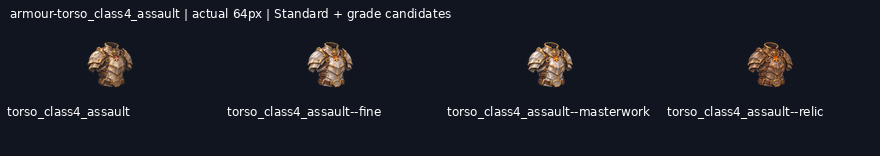
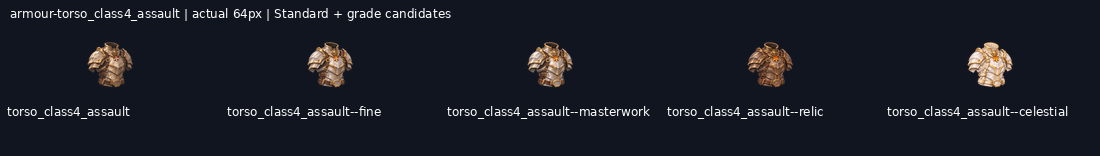
art: draw armour-torso_class4_assault--celestial grade candidate

diff --git a/art/_archive/gear/2026-11-19-kept-blade-grades/HANDOFF.md b/art/_archive/gear/2026-11-19-kept-blade-grades/HANDOFF.md
@@ -1,9 +1,9 @@
 # Kept-blade grade candidates
 
-**76/120 grade candidates delivered** on `art/2026-11-19-kept-blade-grades`. Shared mailbox: https://github.com/leonpentastorm/Project-Heaven-Cry/issues/3 . See claim.json for this lane’s current Standards. Released overlapping blades reuse12 peer candidates, with3 local alternatives archived.
+**77/120 grade candidates delivered** on `art/2026-11-19-kept-blade-grades`. Shared mailbox: https://github.com/leonpentastorm/Project-Heaven-Cry/issues/3 . See claim.json for this lane’s current Standards. Released overlapping blades reuse12 peer candidates, with3 local alternatives archived.
 
 Leon requested continuous candidate production; proof approval is not fabricated. All candidates remain review-candidate, production_approved:false, implementation_ready:false, with outline.review_required:true. Exact outline is measured, never asserted unless the masks match. Per-image registration is uniform scaling/translation only, without warp, silhouette masks, filled pixels or code-drawn substitutes. The generated native remains untouched.
 
 Each image is generated, shown, technically exported, validated, committed and pushed before the next. Sources, versioned masters, exact prompts/reference hashes,256/128/64/32 exports and grade comparison sheets are retained. Standards and earlier deliveries are unchanged. This sparse checkout cannot validate omitted historical files; full-library validation/build is an integration check on a full checkout.
 
-Remaining: weapon-ork_machete--masterwork, weapon-ork_machete--relic, weapon-ork_machete--celestial, weapon-war_axe--fine, weapon-war_axe--masterwork, weapon-war_axe--relic, weapon-war_axe--celestial, armour-torso_class4_assault--celestial, armour-torso_class5_juggernaut--fine, armour-torso_class5_juggernaut--masterwork, armour-torso_class5_juggernaut--relic, armour-torso_class5_juggernaut--celestial, armour-padded_undershirt--fine, armour-padded_undershirt--masterwork, armour-padded_undershirt--relic, armour-padded_undershirt--celestial, armour-trauma_plate--fine, armour-trauma_plate--masterwork, armour-trauma_plate--relic, armour-trauma_plate--celestial, armour-runner_trousers--fine, armour-runner_trousers--masterwork, armour-runner_trousers--relic, armour-runner_trousers--celestial, armour-armoured_greaves--fine, armour-armoured_greaves--masterwork, armour-armoured_greaves--relic, armour-armoured_greaves--celestial, armour-work_gloves--fine, armour-work_gloves--masterwork, armour-work_gloves--relic, armour-work_gloves--celestial, armour-combat_gloves--fine, armour-combat_gloves--masterwork, armour-combat_gloves--relic, armour-combat_gloves--celestial, armour-field_boots--fine, armour-field_boots--masterwork, armour-field_boots--relic, armour-field_boots--celestial, armour-heavy_boots--fine, armour-heavy_boots--masterwork, armour-heavy_boots--relic, armour-heavy_boots--celestial.
+Remaining: weapon-ork_machete--masterwork, weapon-ork_machete--relic, weapon-ork_machete--celestial, weapon-war_axe--fine, weapon-war_axe--masterwork, weapon-war_axe--relic, weapon-war_axe--celestial, armour-torso_class5_juggernaut--fine, armour-torso_class5_juggernaut--masterwork, armour-torso_class5_juggernaut--relic, armour-torso_class5_juggernaut--celestial, armour-padded_undershirt--fine, armour-padded_undershirt--masterwork, armour-padded_undershirt--relic, armour-padded_undershirt--celestial, armour-trauma_plate--fine, armour-trauma_plate--masterwork, armour-trauma_plate--relic, armour-trauma_plate--celestial, armour-runner_trousers--fine, armour-runner_trousers--masterwork, armour-runner_trousers--relic, armour-runner_trousers--celestial, armour-armoured_greaves--fine, armour-armoured_greaves--masterwork, armour-armoured_greaves--relic, armour-armoured_greaves--celestial, armour-work_gloves--fine, armour-work_gloves--masterwork, armour-work_gloves--relic, armour-work_gloves--celestial, armour-combat_gloves--fine, armour-combat_gloves--masterwork, armour-combat_gloves--relic, armour-combat_gloves--celestial, armour-field_boots--fine, armour-field_boots--masterwork, armour-field_boots--relic, armour-field_boots--celestial, armour-heavy_boots--fine, armour-heavy_boots--masterwork, armour-heavy_boots--relic, armour-heavy_boots--celestial.
